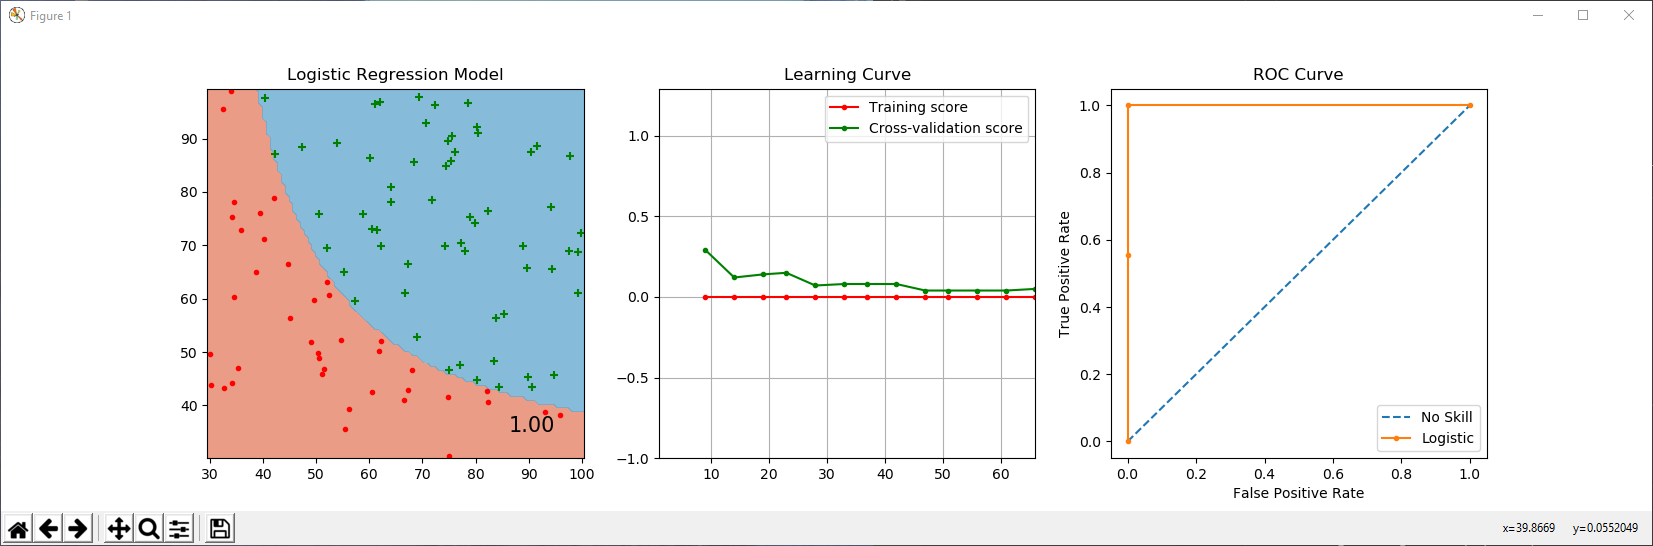
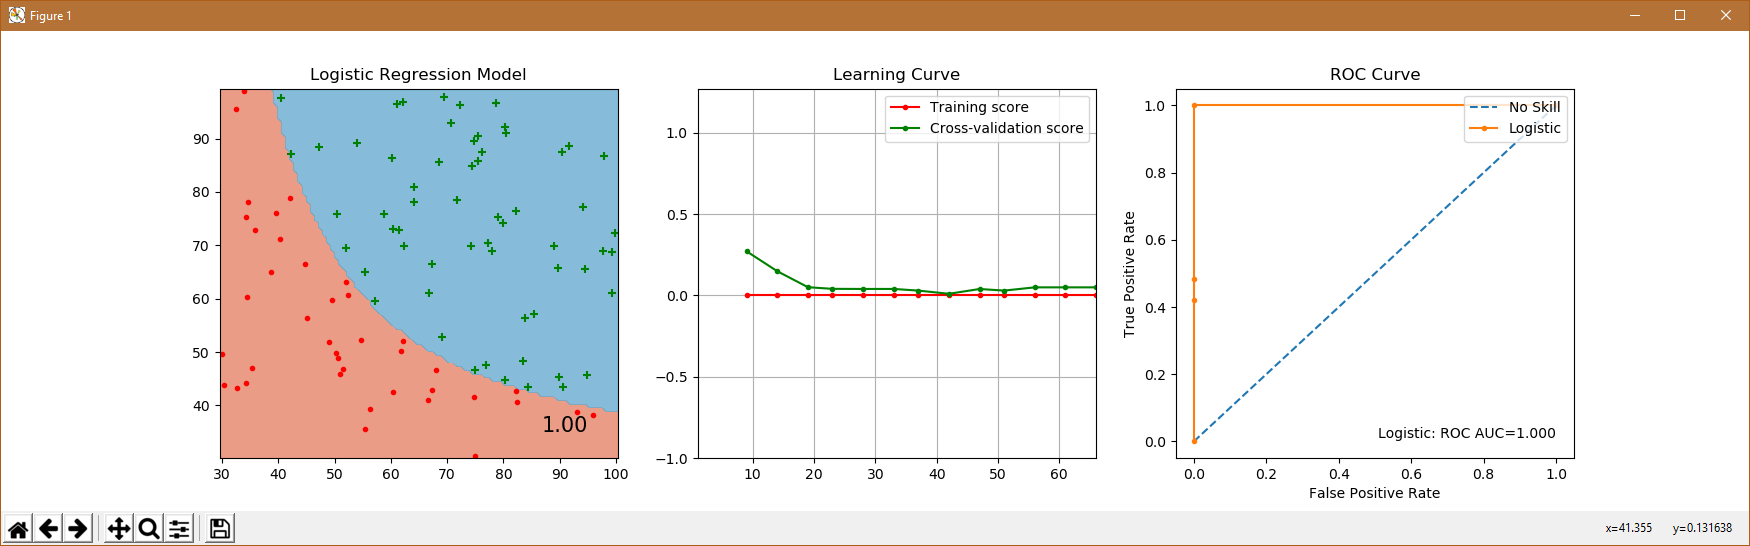
Added ROC rating to graphs

diff --git a/ex2/app.py b/ex2/app.py
@@ -14,7 +14,11 @@ from sklearn.metrics import roc_auc_score
 from matplotlib.offsetbox import AnchoredText
 
 
-def generate_roc_curve(clf, X_test, y_test, graph=None, name=None):
+def generate_roc_curve(clf, X, y, graph=None, name=None):
+    X_train, X_test, y_train, y_test = train_test_split(X, y, test_size=0.5, random_state=0)
+
+    clf.fit(X_train, y_train)
+
     ns_probs = [0 for _ in range(len(y_test))]
 
     lr_probs = clf.predict_proba(X_test)
@@ -39,11 +43,13 @@ def generate_roc_curve(clf, X_test, y_test, graph=None, name=None):
         graph.set_xlabel("False Positive Rate")
         graph.set_ylabel("True Positive Rate")
         graph.set_title(name)
+    
+    graph.annotate(lr_score, xy=(1,0), horizontalalignment='right', verticalalignment='bottom')
 
     graph.plot(ns_fpr, ns_tpr, linestyle='--', label="No Skill")
     graph.plot(lr_fpr, lr_tpr, marker='.', label='Logistic')
 
-    graph.legend()
+    graph.legend(loc='upper right')
 
 def generate_decision_contour_clf(u, v, X, clf, graph=None, name=None, degree=6):
     z = np.zeros((len(u), len(v)))
@@ -123,7 +129,7 @@ def run_example_1(params):
 
     generate_validation_curve(t_scores, cv_scores, t_sizes, graph=ax2, name="Learning Curve")
 
-    generate_roc_curve(clf, X_test, y_test, graph=ax3, name="ROC Curve")
+    generate_roc_curve(LogisticRegression(**params), X, y, graph=ax3, name="ROC Curve")
 
 
 def run_example_2(params):
@@ -178,7 +184,7 @@ def run_example_2(params):
 
     generate_validation_curve(t_scores, cv_scores, t_sizes, graph=ax2, name="Learning Curve")
 
-    generate_roc_curve(clf, X_test, y_test, graph=ax3, name="ROC Curve")
+    generate_roc_curve(LogisticRegression(**params), X, y, graph=ax3, name="ROC Curve")
 
 
 # Find a well fitted model for the first data set
